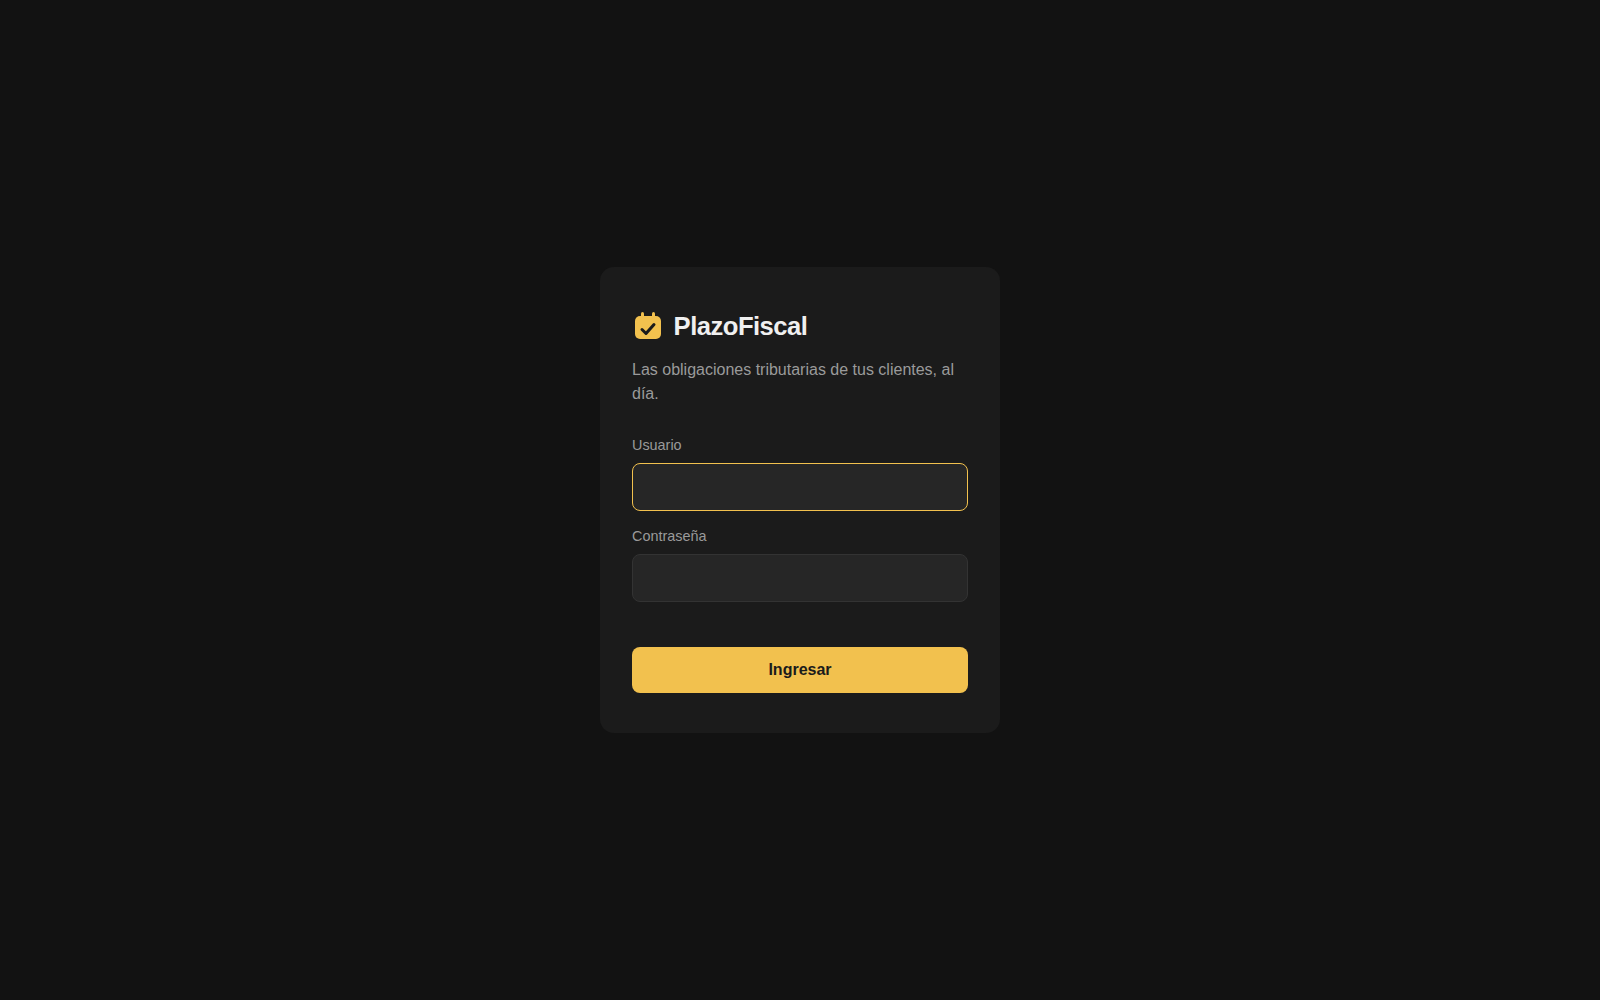
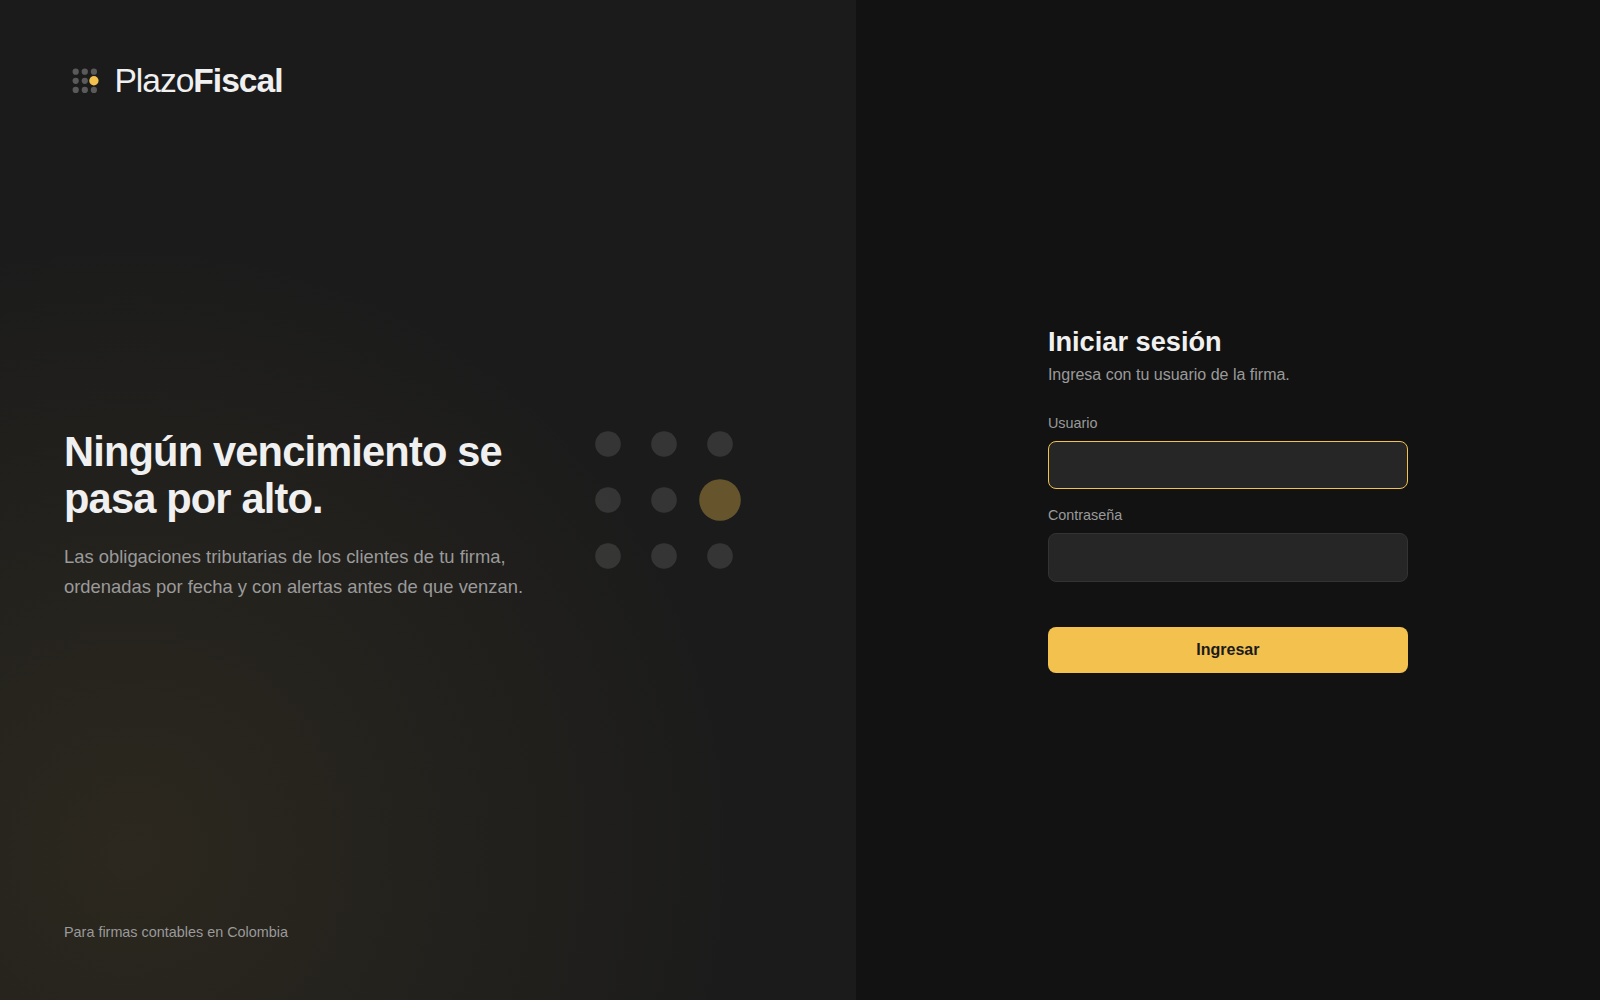
style: refine the brand mark and the sign-in layout

diff --git a/app/frontend/src/components/Login.vue b/app/frontend/src/components/Login.vue
@@ -1,34 +1,54 @@
 <template>
   <div class="login-page">
     <spinner v-show="loggingIn" message="Ingresando..."></spinner>
-    <form class="login-card" v-on:submit.prevent="doLogin">
-      <brand></brand>
-      <p class="login-intro">Las obligaciones tributarias de tus clientes, al día.</p>
 
-      <label class="login-label" for="username">Usuario</label>
-      <input
-        id="username"
-        type="text"
-        class="pf-input"
-        autocomplete="username"
-        v-model="credentials.username"
-        required
-        autofocus
-      >
+    <section class="login-hero">
+      <svg class="login-ring" viewBox="0 0 32 32" aria-hidden="true">
+        <g fill="#f0f0f0" opacity="0.35">
+          <circle cx="9" cy="9" r="1.6"/><circle cx="16" cy="9" r="1.6"/><circle cx="23" cy="9" r="1.6"/>
+          <circle cx="9" cy="16" r="1.6"/><circle cx="16" cy="16" r="1.6"/>
+          <circle cx="9" cy="23" r="1.6"/><circle cx="16" cy="23" r="1.6"/><circle cx="23" cy="23" r="1.6"/>
+        </g>
+        <circle cx="23" cy="16" r="2.6" fill="#f2c14e"/>
+      </svg>
+      <brand large></brand>
+      <div class="login-message">
+        <h1>Ningún vencimiento se pasa por alto.</h1>
+        <p>Las obligaciones tributarias de los clientes de tu firma, ordenadas por fecha y con alertas antes de que venzan.</p>
+      </div>
+      <p class="login-footer">Para firmas contables en Colombia</p>
+    </section>
 
-      <label class="login-label" for="password">Contraseña</label>
-      <input
-        id="password"
-        type="password"
-        class="pf-input"
-        autocomplete="current-password"
-        v-model="credentials.password"
-        required
-      >
+    <section class="login-panel">
+      <form class="login-form" v-on:submit.prevent="doLogin">
+        <h2>Iniciar sesión</h2>
+        <p class="login-hint">Ingresa con tu usuario de la firma.</p>
 
-      <div class="pf-error login-error">{{ errorMessage }}</div>
-      <button type="submit" class="pf-button login-submit">Ingresar</button>
-    </form>
+        <label class="login-label" for="username">Usuario</label>
+        <input
+          id="username"
+          type="text"
+          class="pf-input"
+          autocomplete="username"
+          v-model="credentials.username"
+          required
+          autofocus
+        >
+
+        <label class="login-label" for="password">Contraseña</label>
+        <input
+          id="password"
+          type="password"
+          class="pf-input"
+          autocomplete="current-password"
+          v-model="credentials.password"
+          required
+        >
+
+        <div class="pf-error login-error">{{ errorMessage }}</div>
+        <button type="submit" class="pf-button login-submit">Ingresar</button>
+      </form>
+    </section>
   </div>
 </template>
 
@@ -74,31 +94,86 @@ export default {
 
 <style scoped>
 .login-page {
+  display: grid;
+  grid-template-columns: minmax(0, 1.15fr) minmax(0, 1fr);
+  min-height: 100vh;
+}
+
+.login-hero {
+  background: radial-gradient(circle at 15% 85%, rgba(242, 193, 78, 0.08), transparent 55%), var(--pf-panel);
+  display: flex;
+  flex-direction: column;
+  overflow: hidden;
+  padding: 3.5rem 4rem;
+  position: relative;
+}
+
+.login-ring {
+  height: 16rem;
+  opacity: 0.35;
+  position: absolute;
+  right: 4rem;
+  top: 50%;
+  transform: translateY(-50%);
+  width: 16rem;
+}
+
+.login-message {
+  margin: auto 0;
+  max-width: 30rem;
+  position: relative;
+}
+
+.login-message h1 {
+  font-size: 2.6rem;
+  font-weight: 700;
+  letter-spacing: -0.02em;
+  line-height: 1.15;
+  margin: 0 0 1.2rem;
+}
+
+.login-message p {
+  color: var(--pf-muted);
+  font-size: 1.15rem;
+  line-height: 1.6;
+  margin: 0;
+}
+
+.login-footer {
+  color: var(--pf-muted);
+  font-size: 0.9rem;
+  margin: 0;
+  position: relative;
+}
+
+.login-panel {
   align-items: center;
   display: flex;
   justify-content: center;
-  min-height: 100vh;
-  padding: 1rem;
+  padding: 2rem;
 }
 
-.login-card {
-  background: var(--pf-panel);
-  border-radius: 14px;
-  max-width: 400px;
-  padding: 2.5rem 2rem;
+.login-form {
+  max-width: 360px;
   width: 100%;
 }
 
-.login-intro {
+.login-form h2 {
+  font-size: 1.7rem;
+  font-weight: 700;
+  margin: 0;
+}
+
+.login-hint {
   color: var(--pf-muted);
-  margin: 0.8rem 0 1.8rem;
+  margin: 0.4rem 0 1.6rem;
 }
 
 .login-label {
   color: var(--pf-muted);
   display: block;
   font-size: 0.9rem;
-  margin: 0.9rem 0 0.4rem;
+  margin: 1rem 0 0.4rem;
 }
 
 .login-error {
@@ -108,5 +183,27 @@ export default {
 .login-submit {
   margin-top: 0.4rem;
   width: 100%;
+}
+
+@media (max-width: 991px) {
+  .login-page {
+    grid-template-columns: 1fr;
+  }
+
+  .login-hero {
+    padding: 2rem 1.5rem 2.5rem;
+  }
+
+  .login-ring {
+    display: none;
+  }
+
+  .login-message {
+    margin: 2.5rem 0 1.5rem;
+  }
+
+  .login-message h1 {
+    font-size: 1.9rem;
+  }
 }
 </style>

diff --git a/app/frontend/src/components/common/Brand.vue b/app/frontend/src/components/common/Brand.vue
@@ -1,18 +1,26 @@
 <template>
-  <div class="brand">
+  <div class="brand" :class="{ 'brand-large': large }">
     <svg class="brand-mark" viewBox="0 0 32 32" aria-hidden="true">
-      <rect x="3" y="6" width="26" height="23" rx="5" fill="#f2c14e"/>
-      <rect x="9" y="2" width="3" height="8" rx="1.5" fill="#f2c14e"/>
-      <rect x="20" y="2" width="3" height="8" rx="1.5" fill="#f2c14e"/>
-      <path d="M10 19.5l4 4 8-9" fill="none" stroke="#1b1b1b" stroke-width="3" stroke-linecap="round" stroke-linejoin="round"/>
+      <g fill="#5a5a5a">
+        <circle cx="9" cy="9" r="2.4"/><circle cx="16" cy="9" r="2.4"/><circle cx="23" cy="9" r="2.4"/>
+        <circle cx="9" cy="16" r="2.4"/><circle cx="16" cy="16" r="2.4"/>
+        <circle cx="9" cy="23" r="2.4"/><circle cx="16" cy="23" r="2.4"/><circle cx="23" cy="23" r="2.4"/>
+      </g>
+      <circle cx="23" cy="16" r="3.6" fill="#f2c14e"/>
     </svg>
-    <span class="brand-name">PlazoFiscal</span>
+    <span class="brand-name"><span class="brand-light">Plazo</span>Fiscal</span>
   </div>
 </template>
 
 <script>
 export default {
-  name: 'brand'
+  name: 'brand',
+  props: {
+    large: {
+      type: Boolean,
+      default: false
+    }
+  }
 }
 </script>
 
@@ -20,17 +28,30 @@ export default {
 .brand {
   align-items: center;
   display: flex;
-  gap: 0.6rem;
+  gap: 0.55rem;
 }
 
 .brand-mark {
-  height: 2rem;
-  width: 2rem;
+  height: 1.9rem;
+  width: 1.9rem;
 }
 
 .brand-name {
-  font-size: 1.6rem;
+  font-size: 1.5rem;
   font-weight: 700;
-  letter-spacing: -0.02em;
+  letter-spacing: -0.03em;
+}
+
+.brand-light {
+  font-weight: 300;
+}
+
+.brand-large .brand-mark {
+  height: 2.6rem;
+  width: 2.6rem;
+}
+
+.brand-large .brand-name {
+  font-size: 2.1rem;
 }
 </style>
